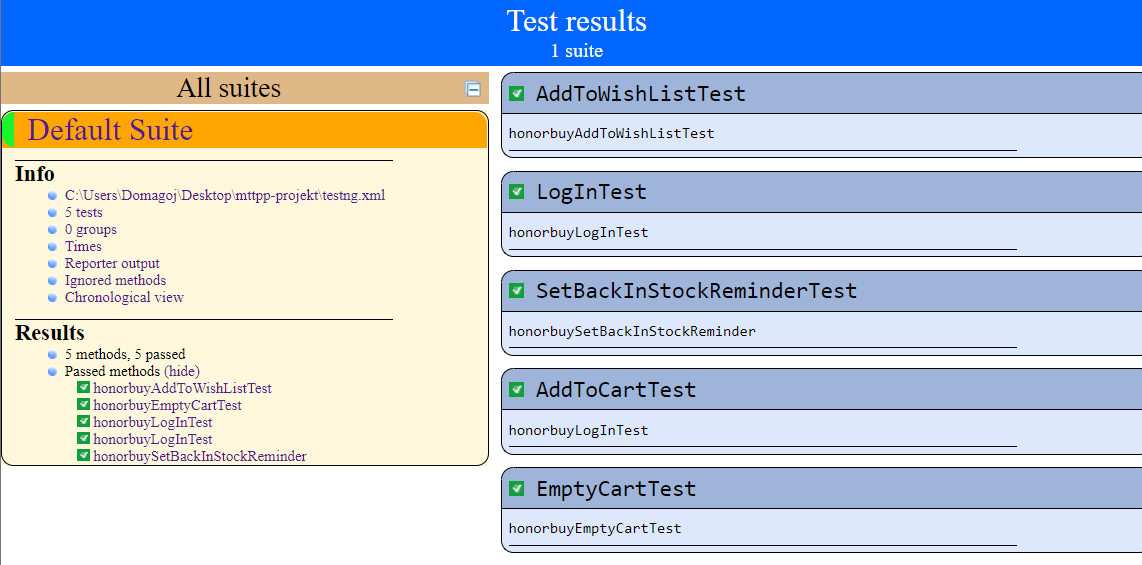
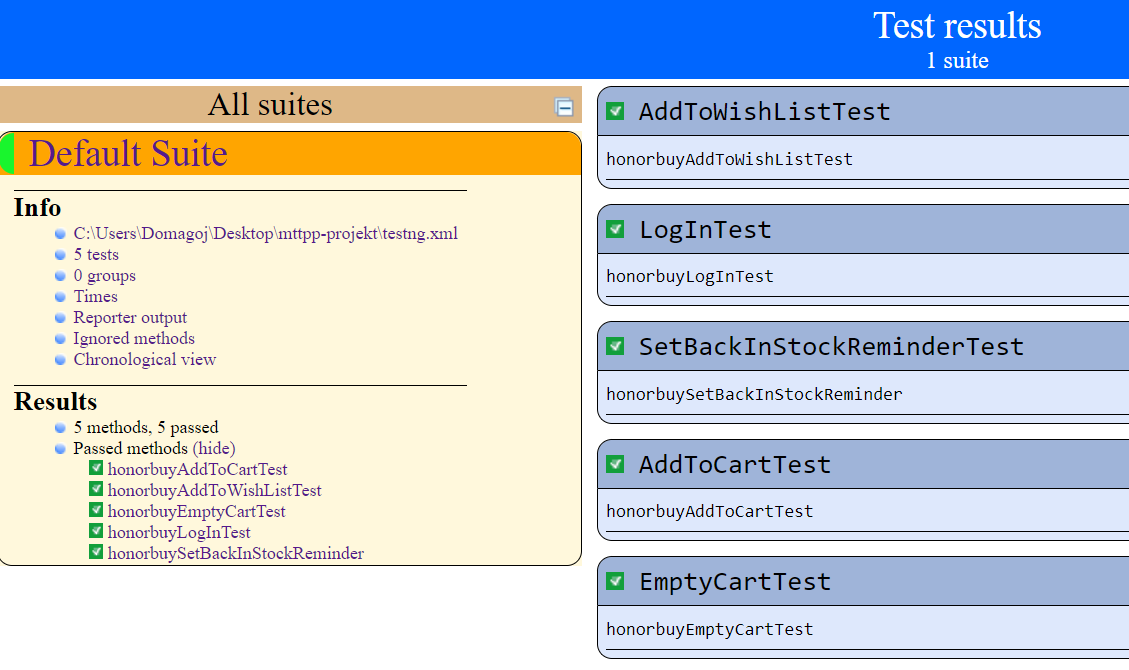
fix test method naming

Changed region(s): [[0.0, 0.0, 1.0, 0.9929]]

diff --git a/target/surefire-reports/old/Default Suite/methods-alphabetical.html b/target/surefire-reports/old/Default Suite/methods-alphabetical.html
@@ -1,34 +1,34 @@
 <h2>Methods run, sorted chronologically</h2><h3>&gt;&gt; means before, &lt;&lt; means after</h3><p/><br/><em>Default Suite</em><p/><small><i>(Hover the method name to see the test class name)</i></small><p/>
 <table border="1">
 <tr><th>Time</th><th>Delta (ms)</th><th>Suite<br>configuration</th><th>Test<br>configuration</th><th>Class<br>configuration</th><th>Groups<br>configuration</th><th>Method<br>configuration</th><th>Test<br>method</th><th>Thread</th><th>Instances</th></tr>
-<tr bgcolor="fbf16f">  <td>22/02/05 19:36:49</td>   <td>0</td> <td>&nbsp;</td><td>&nbsp;</td><td>&nbsp;</td><td>&nbsp;</td><td>&nbsp;</td><td title="AddToWishListTest.honorbuyAddToWishListTest()[pri:0, instance:AddToWishListTest@25af5db5]">honorbuyAddToWishListTest</td> 
+<tr bgcolor="9273a8">  <td>22/02/06 00:39:54</td>   <td>0</td> <td>&nbsp;</td><td>&nbsp;</td><td>&nbsp;</td><td>&nbsp;</td><td>&nbsp;</td><td title="AddToCartTest.honorbuyAddToCartTest()[pri:0, instance:AddToCartTest@26a7b76d]">honorbuyAddToCartTest</td> 
   <td>main@455538610</td>   <td></td> </tr>
-<tr bgcolor="88b285">  <td>22/02/05 19:36:40</td>   <td>-8865</td> <td>&nbsp;</td><td>&nbsp;</td><td>&nbsp;</td><td>&nbsp;</td><td>&nbsp;</td><td title="EmptyCartTest.honorbuyEmptyCartTest()[pri:0, instance:EmptyCartTest@7113b13f]">honorbuyEmptyCartTest</td> 
+<tr bgcolor="fbf16f">  <td>22/02/06 00:40:10</td>   <td>16031</td> <td>&nbsp;</td><td>&nbsp;</td><td>&nbsp;</td><td>&nbsp;</td><td>&nbsp;</td><td title="AddToWishListTest.honorbuyAddToWishListTest()[pri:0, instance:AddToWishListTest@25af5db5]">honorbuyAddToWishListTest</td> 
   <td>main@455538610</td>   <td></td> </tr>
-<tr bgcolor="e69ade">  <td>22/02/05 19:36:20</td>   <td>-29066</td> <td>&nbsp;</td><td>&nbsp;</td><td>&nbsp;</td><td>&nbsp;</td><td>&nbsp;</td><td title="LogInTest.honorbuyLogInTest()[pri:0, instance:LogInTest@80503]">honorbuyLogInTest</td> 
+<tr bgcolor="88b285">  <td>22/02/06 00:40:01</td>   <td>7113</td> <td>&nbsp;</td><td>&nbsp;</td><td>&nbsp;</td><td>&nbsp;</td><td>&nbsp;</td><td title="EmptyCartTest.honorbuyEmptyCartTest()[pri:0, instance:EmptyCartTest@7113b13f]">honorbuyEmptyCartTest</td> 
   <td>main@455538610</td>   <td></td> </tr>
-<tr bgcolor="9273a8">  <td>22/02/05 19:36:33</td>   <td>-16061</td> <td>&nbsp;</td><td>&nbsp;</td><td>&nbsp;</td><td>&nbsp;</td><td>&nbsp;</td><td title="AddToCartTest.honorbuyLogInTest()[pri:0, instance:AddToCartTest@26a7b76d]">honorbuyLogInTest</td> 
+<tr bgcolor="e69ade">  <td>22/02/06 00:39:42</td>   <td>-12096</td> <td>&nbsp;</td><td>&nbsp;</td><td>&nbsp;</td><td>&nbsp;</td><td>&nbsp;</td><td title="LogInTest.honorbuyLogInTest()[pri:0, instance:LogInTest@80503]">honorbuyLogInTest</td> 
   <td>main@455538610</td>   <td></td> </tr>
-<tr bgcolor="c1676b">  <td>22/02/05 19:36:25</td>   <td>-24164</td> <td>&nbsp;</td><td>&nbsp;</td><td>&nbsp;</td><td>&nbsp;</td><td>&nbsp;</td><td title="SetBackInStockReminderTest.honorbuySetBackInStockReminder()[pri:0, instance:SetBackInStockReminderTest@6b57696f]">honorbuySetBackInStockReminder</td> 
+<tr bgcolor="c1676b">  <td>22/02/06 00:39:46</td>   <td>-7421</td> <td>&nbsp;</td><td>&nbsp;</td><td>&nbsp;</td><td>&nbsp;</td><td>&nbsp;</td><td title="SetBackInStockReminderTest.honorbuySetBackInStockReminder()[pri:0, instance:SetBackInStockReminderTest@6b57696f]">honorbuySetBackInStockReminder</td> 
   <td>main@455538610</td>   <td></td> </tr>
-<tr bgcolor="e69ade">  <td>22/02/05 19:36:17</td>   <td>-31874</td> <td>&nbsp;</td><td>&nbsp;</td><td>&nbsp;</td><td>&nbsp;</td><td title="&gt;&gt;LogInTest.setupTest()[pri:0, instance:LogInTest@80503]">&gt;&gt;setupTest</td> 
+<tr bgcolor="e69ade">  <td>22/02/06 00:39:38</td>   <td>-16126</td> <td>&nbsp;</td><td>&nbsp;</td><td>&nbsp;</td><td>&nbsp;</td><td title="&gt;&gt;LogInTest.setupTest()[pri:0, instance:LogInTest@80503]">&gt;&gt;setupTest</td> 
 <td>&nbsp;</td>  <td>main@455538610</td>   <td></td> </tr>
-<tr bgcolor="c1676b">  <td>22/02/05 19:36:23</td>   <td>-26366</td> <td>&nbsp;</td><td>&nbsp;</td><td>&nbsp;</td><td>&nbsp;</td><td title="&gt;&gt;SetBackInStockReminderTest.setupTest()[pri:0, instance:SetBackInStockReminderTest@6b57696f]">&gt;&gt;setupTest</td> 
+<tr bgcolor="c1676b">  <td>22/02/06 00:39:44</td>   <td>-9612</td> <td>&nbsp;</td><td>&nbsp;</td><td>&nbsp;</td><td>&nbsp;</td><td title="&gt;&gt;SetBackInStockReminderTest.setupTest()[pri:0, instance:SetBackInStockReminderTest@6b57696f]">&gt;&gt;setupTest</td> 
 <td>&nbsp;</td>  <td>main@455538610</td>   <td></td> </tr>
-<tr bgcolor="9273a8">  <td>22/02/05 19:36:31</td>   <td>-18316</td> <td>&nbsp;</td><td>&nbsp;</td><td>&nbsp;</td><td>&nbsp;</td><td title="&gt;&gt;AddToCartTest.setupTest()[pri:0, instance:AddToCartTest@26a7b76d]">&gt;&gt;setupTest</td> 
+<tr bgcolor="9273a8">  <td>22/02/06 00:39:52</td>   <td>-2061</td> <td>&nbsp;</td><td>&nbsp;</td><td>&nbsp;</td><td>&nbsp;</td><td title="&gt;&gt;AddToCartTest.setupTest()[pri:0, instance:AddToCartTest@26a7b76d]">&gt;&gt;setupTest</td> 
 <td>&nbsp;</td>  <td>main@455538610</td>   <td></td> </tr>
-<tr bgcolor="88b285">  <td>22/02/05 19:36:38</td>   <td>-11006</td> <td>&nbsp;</td><td>&nbsp;</td><td>&nbsp;</td><td>&nbsp;</td><td title="&gt;&gt;EmptyCartTest.setupTest()[pri:0, instance:EmptyCartTest@7113b13f]">&gt;&gt;setupTest</td> 
+<tr bgcolor="88b285">  <td>22/02/06 00:39:59</td>   <td>4933</td> <td>&nbsp;</td><td>&nbsp;</td><td>&nbsp;</td><td>&nbsp;</td><td title="&gt;&gt;EmptyCartTest.setupTest()[pri:0, instance:EmptyCartTest@7113b13f]">&gt;&gt;setupTest</td> 
 <td>&nbsp;</td>  <td>main@455538610</td>   <td></td> </tr>
-<tr bgcolor="fbf16f">  <td>22/02/05 19:36:47</td>   <td>-2260</td> <td>&nbsp;</td><td>&nbsp;</td><td>&nbsp;</td><td>&nbsp;</td><td title="&gt;&gt;AddToWishListTest.setupTest()[pri:0, instance:AddToWishListTest@25af5db5]">&gt;&gt;setupTest</td> 
+<tr bgcolor="fbf16f">  <td>22/02/06 00:40:08</td>   <td>13866</td> <td>&nbsp;</td><td>&nbsp;</td><td>&nbsp;</td><td>&nbsp;</td><td title="&gt;&gt;AddToWishListTest.setupTest()[pri:0, instance:AddToWishListTest@25af5db5]">&gt;&gt;setupTest</td> 
 <td>&nbsp;</td>  <td>main@455538610</td>   <td></td> </tr>
-<tr bgcolor="e69ade">  <td>22/02/05 19:36:22</td>   <td>-26958</td> <td>&nbsp;</td><td>&nbsp;</td><td>&nbsp;</td><td>&nbsp;</td><td title="&lt;&lt;LogInTest.teardownTest()[pri:0, instance:LogInTest@80503]">&lt;&lt;teardownTest</td> 
+<tr bgcolor="e69ade">  <td>22/02/06 00:39:43</td>   <td>-10207</td> <td>&nbsp;</td><td>&nbsp;</td><td>&nbsp;</td><td>&nbsp;</td><td title="&lt;&lt;LogInTest.teardownTest()[pri:0, instance:LogInTest@80503]">&lt;&lt;teardownTest</td> 
 <td>&nbsp;</td>  <td>main@455538610</td>   <td></td> </tr>
-<tr bgcolor="c1676b">  <td>22/02/05 19:36:30</td>   <td>-18927</td> <td>&nbsp;</td><td>&nbsp;</td><td>&nbsp;</td><td>&nbsp;</td><td title="&lt;&lt;SetBackInStockReminderTest.teardownTest()[pri:0, instance:SetBackInStockReminderTest@6b57696f]">&lt;&lt;teardownTest</td> 
+<tr bgcolor="c1676b">  <td>22/02/06 00:39:51</td>   <td>-2655</td> <td>&nbsp;</td><td>&nbsp;</td><td>&nbsp;</td><td>&nbsp;</td><td title="&lt;&lt;SetBackInStockReminderTest.teardownTest()[pri:0, instance:SetBackInStockReminderTest@6b57696f]">&lt;&lt;teardownTest</td> 
 <td>&nbsp;</td>  <td>main@455538610</td>   <td></td> </tr>
-<tr bgcolor="9273a8">  <td>22/02/05 19:36:38</td>   <td>-11609</td> <td>&nbsp;</td><td>&nbsp;</td><td>&nbsp;</td><td>&nbsp;</td><td title="&lt;&lt;AddToCartTest.teardownTest()[pri:0, instance:AddToCartTest@26a7b76d]">&lt;&lt;teardownTest</td> 
+<tr bgcolor="9273a8">  <td>22/02/06 00:39:58</td>   <td>4317</td> <td>&nbsp;</td><td>&nbsp;</td><td>&nbsp;</td><td>&nbsp;</td><td title="&lt;&lt;AddToCartTest.teardownTest()[pri:0, instance:AddToCartTest@26a7b76d]">&lt;&lt;teardownTest</td> 
 <td>&nbsp;</td>  <td>main@455538610</td>   <td></td> </tr>
-<tr bgcolor="88b285">  <td>22/02/05 19:36:46</td>   <td>-2855</td> <td>&nbsp;</td><td>&nbsp;</td><td>&nbsp;</td><td>&nbsp;</td><td title="&lt;&lt;EmptyCartTest.teardownTest()[pri:0, instance:EmptyCartTest@7113b13f]">&lt;&lt;teardownTest</td> 
+<tr bgcolor="88b285">  <td>22/02/06 00:40:07</td>   <td>13257</td> <td>&nbsp;</td><td>&nbsp;</td><td>&nbsp;</td><td>&nbsp;</td><td title="&lt;&lt;EmptyCartTest.teardownTest()[pri:0, instance:EmptyCartTest@7113b13f]">&lt;&lt;teardownTest</td> 
 <td>&nbsp;</td>  <td>main@455538610</td>   <td></td> </tr>
-<tr bgcolor="fbf16f">  <td>22/02/05 19:36:56</td>   <td>7260</td> <td>&nbsp;</td><td>&nbsp;</td><td>&nbsp;</td><td>&nbsp;</td><td title="&lt;&lt;AddToWishListTest.teardownTest()[pri:0, instance:AddToWishListTest@25af5db5]">&lt;&lt;teardownTest</td> 
+<tr bgcolor="fbf16f">  <td>22/02/06 00:40:17</td>   <td>23495</td> <td>&nbsp;</td><td>&nbsp;</td><td>&nbsp;</td><td>&nbsp;</td><td title="&lt;&lt;AddToWishListTest.teardownTest()[pri:0, instance:AddToWishListTest@25af5db5]">&lt;&lt;teardownTest</td> 
 <td>&nbsp;</td>  <td>main@455538610</td>   <td></td> </tr>
 </table>

diff --git a/target/surefire-reports/old/Default Suite/methods.html b/target/surefire-reports/old/Default Suite/methods.html
@@ -1,34 +1,34 @@
 <h2>Methods run, sorted chronologically</h2><h3>&gt;&gt; means before, &lt;&lt; means after</h3><p/><br/><em>Default Suite</em><p/><small><i>(Hover the method name to see the test class name)</i></small><p/>
 <table border="1">
 <tr><th>Time</th><th>Delta (ms)</th><th>Suite<br>configuration</th><th>Test<br>configuration</th><th>Class<br>configuration</th><th>Groups<br>configuration</th><th>Method<br>configuration</th><th>Test<br>method</th><th>Thread</th><th>Instances</th></tr>
-<tr bgcolor="e69ade">  <td>22/02/05 19:36:17</td>   <td>0</td> <td>&nbsp;</td><td>&nbsp;</td><td>&nbsp;</td><td>&nbsp;</td><td title="&gt;&gt;LogInTest.setupTest()[pri:0, instance:LogInTest@80503]">&gt;&gt;setupTest</td> 
+<tr bgcolor="e69ade">  <td>22/02/06 00:39:38</td>   <td>0</td> <td>&nbsp;</td><td>&nbsp;</td><td>&nbsp;</td><td>&nbsp;</td><td title="&gt;&gt;LogInTest.setupTest()[pri:0, instance:LogInTest@80503]">&gt;&gt;setupTest</td> 
 <td>&nbsp;</td>  <td>main@455538610</td>   <td></td> </tr>
-<tr bgcolor="e69ade">  <td>22/02/05 19:36:20</td>   <td>2808</td> <td>&nbsp;</td><td>&nbsp;</td><td>&nbsp;</td><td>&nbsp;</td><td>&nbsp;</td><td title="LogInTest.honorbuyLogInTest()[pri:0, instance:LogInTest@80503]">honorbuyLogInTest</td> 
+<tr bgcolor="e69ade">  <td>22/02/06 00:39:42</td>   <td>4030</td> <td>&nbsp;</td><td>&nbsp;</td><td>&nbsp;</td><td>&nbsp;</td><td>&nbsp;</td><td title="LogInTest.honorbuyLogInTest()[pri:0, instance:LogInTest@80503]">honorbuyLogInTest</td> 
   <td>main@455538610</td>   <td></td> </tr>
-<tr bgcolor="e69ade">  <td>22/02/05 19:36:22</td>   <td>4916</td> <td>&nbsp;</td><td>&nbsp;</td><td>&nbsp;</td><td>&nbsp;</td><td title="&lt;&lt;LogInTest.teardownTest()[pri:0, instance:LogInTest@80503]">&lt;&lt;teardownTest</td> 
+<tr bgcolor="e69ade">  <td>22/02/06 00:39:43</td>   <td>5919</td> <td>&nbsp;</td><td>&nbsp;</td><td>&nbsp;</td><td>&nbsp;</td><td title="&lt;&lt;LogInTest.teardownTest()[pri:0, instance:LogInTest@80503]">&lt;&lt;teardownTest</td> 
 <td>&nbsp;</td>  <td>main@455538610</td>   <td></td> </tr>
-<tr bgcolor="c1676b">  <td>22/02/05 19:36:23</td>   <td>5508</td> <td>&nbsp;</td><td>&nbsp;</td><td>&nbsp;</td><td>&nbsp;</td><td title="&gt;&gt;SetBackInStockReminderTest.setupTest()[pri:0, instance:SetBackInStockReminderTest@6b57696f]">&gt;&gt;setupTest</td> 
+<tr bgcolor="c1676b">  <td>22/02/06 00:39:44</td>   <td>6514</td> <td>&nbsp;</td><td>&nbsp;</td><td>&nbsp;</td><td>&nbsp;</td><td title="&gt;&gt;SetBackInStockReminderTest.setupTest()[pri:0, instance:SetBackInStockReminderTest@6b57696f]">&gt;&gt;setupTest</td> 
 <td>&nbsp;</td>  <td>main@455538610</td>   <td></td> </tr>
-<tr bgcolor="c1676b">  <td>22/02/05 19:36:25</td>   <td>7710</td> <td>&nbsp;</td><td>&nbsp;</td><td>&nbsp;</td><td>&nbsp;</td><td>&nbsp;</td><td title="SetBackInStockReminderTest.honorbuySetBackInStockReminder()[pri:0, instance:SetBackInStockReminderTest@6b57696f]">honorbuySetBackInStockReminder</td> 
+<tr bgcolor="c1676b">  <td>22/02/06 00:39:46</td>   <td>8705</td> <td>&nbsp;</td><td>&nbsp;</td><td>&nbsp;</td><td>&nbsp;</td><td>&nbsp;</td><td title="SetBackInStockReminderTest.honorbuySetBackInStockReminder()[pri:0, instance:SetBackInStockReminderTest@6b57696f]">honorbuySetBackInStockReminder</td> 
   <td>main@455538610</td>   <td></td> </tr>
-<tr bgcolor="c1676b">  <td>22/02/05 19:36:30</td>   <td>12947</td> <td>&nbsp;</td><td>&nbsp;</td><td>&nbsp;</td><td>&nbsp;</td><td title="&lt;&lt;SetBackInStockReminderTest.teardownTest()[pri:0, instance:SetBackInStockReminderTest@6b57696f]">&lt;&lt;teardownTest</td> 
+<tr bgcolor="c1676b">  <td>22/02/06 00:39:51</td>   <td>13471</td> <td>&nbsp;</td><td>&nbsp;</td><td>&nbsp;</td><td>&nbsp;</td><td title="&lt;&lt;SetBackInStockReminderTest.teardownTest()[pri:0, instance:SetBackInStockReminderTest@6b57696f]">&lt;&lt;teardownTest</td> 
 <td>&nbsp;</td>  <td>main@455538610</td>   <td></td> </tr>
-<tr bgcolor="9273a8">  <td>22/02/05 19:36:31</td>   <td>13558</td> <td>&nbsp;</td><td>&nbsp;</td><td>&nbsp;</td><td>&nbsp;</td><td title="&gt;&gt;AddToCartTest.setupTest()[pri:0, instance:AddToCartTest@26a7b76d]">&gt;&gt;setupTest</td> 
+<tr bgcolor="9273a8">  <td>22/02/06 00:39:52</td>   <td>14065</td> <td>&nbsp;</td><td>&nbsp;</td><td>&nbsp;</td><td>&nbsp;</td><td title="&gt;&gt;AddToCartTest.setupTest()[pri:0, instance:AddToCartTest@26a7b76d]">&gt;&gt;setupTest</td> 
 <td>&nbsp;</td>  <td>main@455538610</td>   <td></td> </tr>
-<tr bgcolor="9273a8">  <td>22/02/05 19:36:33</td>   <td>15813</td> <td>&nbsp;</td><td>&nbsp;</td><td>&nbsp;</td><td>&nbsp;</td><td>&nbsp;</td><td title="AddToCartTest.honorbuyLogInTest()[pri:0, instance:AddToCartTest@26a7b76d]">honorbuyLogInTest</td> 
+<tr bgcolor="9273a8">  <td>22/02/06 00:39:54</td>   <td>16126</td> <td>&nbsp;</td><td>&nbsp;</td><td>&nbsp;</td><td>&nbsp;</td><td>&nbsp;</td><td title="AddToCartTest.honorbuyAddToCartTest()[pri:0, instance:AddToCartTest@26a7b76d]">honorbuyAddToCartTest</td> 
   <td>main@455538610</td>   <td></td> </tr>
-<tr bgcolor="9273a8">  <td>22/02/05 19:36:38</td>   <td>20265</td> <td>&nbsp;</td><td>&nbsp;</td><td>&nbsp;</td><td>&nbsp;</td><td title="&lt;&lt;AddToCartTest.teardownTest()[pri:0, instance:AddToCartTest@26a7b76d]">&lt;&lt;teardownTest</td> 
+<tr bgcolor="9273a8">  <td>22/02/06 00:39:58</td>   <td>20443</td> <td>&nbsp;</td><td>&nbsp;</td><td>&nbsp;</td><td>&nbsp;</td><td title="&lt;&lt;AddToCartTest.teardownTest()[pri:0, instance:AddToCartTest@26a7b76d]">&lt;&lt;teardownTest</td> 
 <td>&nbsp;</td>  <td>main@455538610</td>   <td></td> </tr>
-<tr bgcolor="88b285">  <td>22/02/05 19:36:38</td>   <td>20868</td> <td>&nbsp;</td><td>&nbsp;</td><td>&nbsp;</td><td>&nbsp;</td><td title="&gt;&gt;EmptyCartTest.setupTest()[pri:0, instance:EmptyCartTest@7113b13f]">&gt;&gt;setupTest</td> 
+<tr bgcolor="88b285">  <td>22/02/06 00:39:59</td>   <td>21059</td> <td>&nbsp;</td><td>&nbsp;</td><td>&nbsp;</td><td>&nbsp;</td><td title="&gt;&gt;EmptyCartTest.setupTest()[pri:0, instance:EmptyCartTest@7113b13f]">&gt;&gt;setupTest</td> 
 <td>&nbsp;</td>  <td>main@455538610</td>   <td></td> </tr>
-<tr bgcolor="88b285">  <td>22/02/05 19:36:40</td>   <td>23009</td> <td>&nbsp;</td><td>&nbsp;</td><td>&nbsp;</td><td>&nbsp;</td><td>&nbsp;</td><td title="EmptyCartTest.honorbuyEmptyCartTest()[pri:0, instance:EmptyCartTest@7113b13f]">honorbuyEmptyCartTest</td> 
+<tr bgcolor="88b285">  <td>22/02/06 00:40:01</td>   <td>23239</td> <td>&nbsp;</td><td>&nbsp;</td><td>&nbsp;</td><td>&nbsp;</td><td>&nbsp;</td><td title="EmptyCartTest.honorbuyEmptyCartTest()[pri:0, instance:EmptyCartTest@7113b13f]">honorbuyEmptyCartTest</td> 
   <td>main@455538610</td>   <td></td> </tr>
-<tr bgcolor="88b285">  <td>22/02/05 19:36:46</td>   <td>29019</td> <td>&nbsp;</td><td>&nbsp;</td><td>&nbsp;</td><td>&nbsp;</td><td title="&lt;&lt;EmptyCartTest.teardownTest()[pri:0, instance:EmptyCartTest@7113b13f]">&lt;&lt;teardownTest</td> 
+<tr bgcolor="88b285">  <td>22/02/06 00:40:07</td>   <td>29383</td> <td>&nbsp;</td><td>&nbsp;</td><td>&nbsp;</td><td>&nbsp;</td><td title="&lt;&lt;EmptyCartTest.teardownTest()[pri:0, instance:EmptyCartTest@7113b13f]">&lt;&lt;teardownTest</td> 
 <td>&nbsp;</td>  <td>main@455538610</td>   <td></td> </tr>
-<tr bgcolor="fbf16f">  <td>22/02/05 19:36:47</td>   <td>29614</td> <td>&nbsp;</td><td>&nbsp;</td><td>&nbsp;</td><td>&nbsp;</td><td title="&gt;&gt;AddToWishListTest.setupTest()[pri:0, instance:AddToWishListTest@25af5db5]">&gt;&gt;setupTest</td> 
+<tr bgcolor="fbf16f">  <td>22/02/06 00:40:08</td>   <td>29992</td> <td>&nbsp;</td><td>&nbsp;</td><td>&nbsp;</td><td>&nbsp;</td><td title="&gt;&gt;AddToWishListTest.setupTest()[pri:0, instance:AddToWishListTest@25af5db5]">&gt;&gt;setupTest</td> 
 <td>&nbsp;</td>  <td>main@455538610</td>   <td></td> </tr>
-<tr bgcolor="fbf16f">  <td>22/02/05 19:36:49</td>   <td>31874</td> <td>&nbsp;</td><td>&nbsp;</td><td>&nbsp;</td><td>&nbsp;</td><td>&nbsp;</td><td title="AddToWishListTest.honorbuyAddToWishListTest()[pri:0, instance:AddToWishListTest@25af5db5]">honorbuyAddToWishListTest</td> 
+<tr bgcolor="fbf16f">  <td>22/02/06 00:40:10</td>   <td>32157</td> <td>&nbsp;</td><td>&nbsp;</td><td>&nbsp;</td><td>&nbsp;</td><td>&nbsp;</td><td title="AddToWishListTest.honorbuyAddToWishListTest()[pri:0, instance:AddToWishListTest@25af5db5]">honorbuyAddToWishListTest</td> 
   <td>main@455538610</td>   <td></td> </tr>
-<tr bgcolor="fbf16f">  <td>22/02/05 19:36:56</td>   <td>39134</td> <td>&nbsp;</td><td>&nbsp;</td><td>&nbsp;</td><td>&nbsp;</td><td title="&lt;&lt;AddToWishListTest.teardownTest()[pri:0, instance:AddToWishListTest@25af5db5]">&lt;&lt;teardownTest</td> 
+<tr bgcolor="fbf16f">  <td>22/02/06 00:40:17</td>   <td>39621</td> <td>&nbsp;</td><td>&nbsp;</td><td>&nbsp;</td><td>&nbsp;</td><td title="&lt;&lt;AddToWishListTest.teardownTest()[pri:0, instance:AddToWishListTest@25af5db5]">&lt;&lt;teardownTest</td> 
 <td>&nbsp;</td>  <td>main@455538610</td>   <td></td> </tr>
 </table>

diff --git a/target/surefire-reports/index.html b/target/surefire-reports/index.html
@@ -102,6 +102,11 @@
                     <div class="method-list-content passed suite-Default_Suite">
                       <span>
                         <img width="3%" src="passed.png"/>
+                        <a href="#" class="method navigator-link" panel-name="suite-Default_Suite" title="AddToCartTest" hash-for-method="honorbuyAddToCartTest">honorbuyAddToCartTest</a> <!-- method navigator-link -->
+                      </span>
+                      <br/>
+                      <span>
+                        <img width="3%" src="passed.png"/>
                         <a href="#" class="method navigator-link" panel-name="suite-Default_Suite" title="AddToWishListTest" hash-for-method="honorbuyAddToWishListTest">honorbuyAddToWishListTest</a> <!-- method navigator-link -->
                       </span>
                       <br/>
@@ -113,11 +118,6 @@
                       <span>
                         <img width="3%" src="passed.png"/>
                         <a href="#" class="method navigator-link" panel-name="suite-Default_Suite" title="LogInTest" hash-for-method="honorbuyLogInTest">honorbuyLogInTest</a> <!-- method navigator-link -->
-                      </span>
-                      <br/>
-                      <span>
-                        <img width="3%" src="passed.png"/>
-                        <a href="#" class="method navigator-link" panel-name="suite-Default_Suite" title="AddToCartTest" hash-for-method="honorbuyLogInTest">honorbuyLogInTest</a> <!-- method navigator-link -->
                       </span>
                       <br/>
                       <span>
@@ -190,9 +190,9 @@
             <div class="main-panel-content rounded-window-bottom">
               <div class="method">
                 <div class="method-content">
-                  <a name="honorbuyLogInTest">
-                  </a> <!-- honorbuyLogInTest -->
-                  <span class="method-name">honorbuyLogInTest</span>
+                  <a name="honorbuyAddToCartTest">
+                  </a> <!-- honorbuyAddToCartTest -->
+                  <span class="method-name">honorbuyAddToCartTest</span>
                 </div> <!-- method-content -->
               </div> <!-- method -->
             </div> <!-- main-panel-content rounded-window-bottom -->
@@ -300,28 +300,28 @@ data.addRows(5);
 data.setCell(0, 0, 0)
 data.setCell(0, 1, 'honorbuyAddToWishListTest')
 data.setCell(0, 2, 'AddToWishListTest')
-data.setCell(0, 3, 7260);
+data.setCell(0, 3, 7464);
 data.setCell(1, 0, 1)
 data.setCell(1, 1, 'honorbuyEmptyCartTest')
 data.setCell(1, 2, 'EmptyCartTest')
-data.setCell(1, 3, 6010);
+data.setCell(1, 3, 6144);
 data.setCell(2, 0, 2)
 data.setCell(2, 1, 'honorbuySetBackInStockReminder')
 data.setCell(2, 2, 'SetBackInStockReminderTest')
-data.setCell(2, 3, 5236);
+data.setCell(2, 3, 4765);
 data.setCell(3, 0, 3)
-data.setCell(3, 1, 'honorbuyLogInTest')
+data.setCell(3, 1, 'honorbuyAddToCartTest')
 data.setCell(3, 2, 'AddToCartTest')
-data.setCell(3, 3, 4452);
+data.setCell(3, 3, 4317);
 data.setCell(4, 0, 4)
 data.setCell(4, 1, 'honorbuyLogInTest')
 data.setCell(4, 2, 'LogInTest')
-data.setCell(4, 3, 2107);
+data.setCell(4, 3, 1888);
 window.suiteTableData['Default_Suite']= { tableData: data, tableDiv: 'times-div-Default_Suite'}
 return data;
 }
               </script>
-              <span class="suite-total-time">Total running time: 25 seconds</span>
+              <span class="suite-total-time">Total running time: 24 seconds</span>
               <div id="times-div-Default_Suite">
               </div> <!-- times-div-Default_Suite -->
             </div> <!-- times-div -->
@@ -354,71 +354,71 @@ return data;
               </div> <!-- configuration-method before -->
               <div class="test-method">
                 <span class="method-name">honorbuyLogInTest</span>
-                <span class="method-start">2808 ms</span>
+                <span class="method-start">4030 ms</span>
               </div> <!-- test-method -->
               <div class="configuration-method after">
                 <span class="method-name">teardownTest</span>
-                <span class="method-start">4916 ms</span>
+                <span class="method-start">5919 ms</span>
               </div> <!-- configuration-method after -->
             </div> <!-- chronological-class -->
             <div class="chronological-class">
               <div class="chronological-class-name">SetBackInStockReminderTest</div> <!-- chronological-class-name -->
               <div class="configuration-method before">
                 <span class="method-name">setupTest</span>
-                <span class="method-start">5508 ms</span>
+                <span class="method-start">6514 ms</span>
               </div> <!-- configuration-method before -->
               <div class="test-method">
                 <span class="method-name">honorbuySetBackInStockReminder</span>
-                <span class="method-start">7710 ms</span>
+                <span class="method-start">8705 ms</span>
               </div> <!-- test-method -->
               <div class="configuration-method after">
                 <span class="method-name">teardownTest</span>
-                <span class="method-start">12947 ms</span>
+                <span class="method-start">13470 ms</span>
               </div> <!-- configuration-method after -->
             </div> <!-- chronological-class -->
             <div class="chronological-class">
               <div class="chronological-class-name">AddToCartTest</div> <!-- chronological-class-name -->
               <div class="configuration-method before">
                 <span class="method-name">setupTest</span>
-                <span class="method-start">13558 ms</span>
+                <span class="method-start">14065 ms</span>
               </div> <!-- configuration-method before -->
               <div class="test-method">
-                <span class="method-name">honorbuyLogInTest</span>
-                <span class="method-start">15813 ms</span>
+                <span class="method-name">honorbuyAddToCartTest</span>
+                <span class="method-start">16126 ms</span>
               </div> <!-- test-method -->
               <div class="configuration-method after">
                 <span class="method-name">teardownTest</span>
-                <span class="method-start">20265 ms</span>
+                <span class="method-start">20443 ms</span>
               </div> <!-- configuration-method after -->
             </div> <!-- chronological-class -->
             <div class="chronological-class">
               <div class="chronological-class-name">EmptyCartTest</div> <!-- chronological-class-name -->
               <div class="configuration-method before">
                 <span class="method-name">setupTest</span>
-                <span class="method-start">20868 ms</span>
+                <span class="method-start">21059 ms</span>
               </div> <!-- configuration-method before -->
               <div class="test-method">
                 <span class="method-name">honorbuyEmptyCartTest</span>
-                <span class="method-start">23009 ms</span>
+                <span class="method-start">23239 ms</span>
               </div> <!-- test-method -->
               <div class="configuration-method after">
                 <span class="method-name">teardownTest</span>
-                <span class="method-start">29019 ms</span>
+                <span class="method-start">29383 ms</span>
               </div> <!-- configuration-method after -->
             </div> <!-- chronological-class -->
             <div class="chronological-class">
               <div class="chronological-class-name">AddToWishListTest</div> <!-- chronological-class-name -->
               <div class="configuration-method before">
                 <span class="method-name">setupTest</span>
-                <span class="method-start">29614 ms</span>
+                <span class="method-start">29992 ms</span>
               </div> <!-- configuration-method before -->
               <div class="test-method">
                 <span class="method-name">honorbuyAddToWishListTest</span>
-                <span class="method-start">31874 ms</span>
+                <span class="method-start">32157 ms</span>
               </div> <!-- test-method -->
               <div class="configuration-method after">
                 <span class="method-name">teardownTest</span>
-                <span class="method-start">39134 ms</span>
+                <span class="method-start">39621 ms</span>
               </div> <!-- configuration-method after -->
           </div> <!-- main-panel-content rounded-window-bottom -->
         </div> <!-- panel -->

diff --git a/target/surefire-reports/emailable-report.html b/target/surefire-reports/emailable-report.html
@@ -9,22 +9,22 @@
 <table>
 <tr><th>Test</th><th># Passed</th><th># Skipped</th><th># Failed</th><th>Time (ms)</th><th>Included Groups</th><th>Excluded Groups</th></tr>
 <tr><th colspan="7">Default Suite</th></tr>
-<tr><td><a href="#t0">LogInTest</a></td><td class="num">1</td><td class="num">0</td><td class="num">0</td><td class="num">5.508</td><td></td><td></td></tr>
-<tr class="stripe"><td><a href="#t1">SetBackInStockReminderTest</a></td><td class="num">1</td><td class="num">0</td><td class="num">0</td><td class="num">8.050</td><td></td><td></td></tr>
-<tr><td><a href="#t2">AddToCartTest</a></td><td class="num">1</td><td class="num">0</td><td class="num">0</td><td class="num">7.310</td><td></td><td></td></tr>
-<tr class="stripe"><td><a href="#t3">EmptyCartTest</a></td><td class="num">1</td><td class="num">0</td><td class="num">0</td><td class="num">8.746</td><td></td><td></td></tr>
-<tr><td><a href="#t4">AddToWishListTest</a></td><td class="num">1</td><td class="num">0</td><td class="num">0</td><td class="num">10.127</td><td></td><td></td></tr>
-<tr><th>Total</th><th class="num">5</th><th class="num">0</th><th class="num">0</th><th class="num">39.741</th><th colspan="2"></th></tr>
+<tr><td><a href="#t0">LogInTest</a></td><td class="num">1</td><td class="num">0</td><td class="num">0</td><td class="num">6.514</td><td></td><td></td></tr>
+<tr class="stripe"><td><a href="#t1">SetBackInStockReminderTest</a></td><td class="num">1</td><td class="num">0</td><td class="num">0</td><td class="num">7.551</td><td></td><td></td></tr>
+<tr><td><a href="#t2">AddToCartTest</a></td><td class="num">1</td><td class="num">0</td><td class="num">0</td><td class="num">6.994</td><td></td><td></td></tr>
+<tr class="stripe"><td><a href="#t3">EmptyCartTest</a></td><td class="num">1</td><td class="num">0</td><td class="num">0</td><td class="num">8.933</td><td></td><td></td></tr>
+<tr><td><a href="#t4">AddToWishListTest</a></td><td class="num">1</td><td class="num">0</td><td class="num">0</td><td class="num">10.229</td><td></td><td></td></tr>
+<tr><th>Total</th><th class="num">5</th><th class="num">0</th><th class="num">0</th><th class="num">40.221</th><th colspan="2"></th></tr>
 </table>
-<table id='summary'><thead><tr><th>Class</th><th>Method</th><th>Start</th><th>Time (ms)</th></tr></thead><tbody><tr><th colspan="4">Default Suite</th></tr></tbody><tbody id="t0"><tr><th colspan="4">LogInTest &#8212; passed</th></tr><tr class="passedeven"><td rowspan="1">LogInTest</td><td><a href="#m0">honorbuyLogInTest</a></td><td rowspan="1">1644086180619</td><td rowspan="1">2107</td></tr></tbody>
-<tbody id="t1"><tr><th colspan="4">SetBackInStockReminderTest &#8212; passed</th></tr><tr class="passedeven"><td rowspan="1">SetBackInStockReminderTest</td><td><a href="#m1">honorbuySetBackInStockReminder</a></td><td rowspan="1">1644086185521</td><td rowspan="1">5236</td></tr></tbody>
-<tbody id="t2"><tr><th colspan="4">AddToCartTest &#8212; passed</th></tr><tr class="passedeven"><td rowspan="1">AddToCartTest</td><td><a href="#m2">honorbuyLogInTest</a></td><td rowspan="1">1644086193624</td><td rowspan="1">4452</td></tr></tbody>
-<tbody id="t3"><tr><th colspan="4">EmptyCartTest &#8212; passed</th></tr><tr class="passedeven"><td rowspan="1">EmptyCartTest</td><td><a href="#m3">honorbuyEmptyCartTest</a></td><td rowspan="1">1644086200820</td><td rowspan="1">6010</td></tr></tbody>
-<tbody id="t4"><tr><th colspan="4">AddToWishListTest &#8212; passed</th></tr><tr class="passedeven"><td rowspan="1">AddToWishListTest</td><td><a href="#m4">honorbuyAddToWishListTest</a></td><td rowspan="1">1644086209685</td><td rowspan="1">7260</td></tr></tbody>
+<table id='summary'><thead><tr><th>Class</th><th>Method</th><th>Start</th><th>Time (ms)</th></tr></thead><tbody><tr><th colspan="4">Default Suite</th></tr></tbody><tbody id="t0"><tr><th colspan="4">LogInTest &#8212; passed</th></tr><tr class="passedeven"><td rowspan="1">LogInTest</td><td><a href="#m0">honorbuyLogInTest</a></td><td rowspan="1">1644104382077</td><td rowspan="1">1888</td></tr></tbody>
+<tbody id="t1"><tr><th colspan="4">SetBackInStockReminderTest &#8212; passed</th></tr><tr class="passedeven"><td rowspan="1">SetBackInStockReminderTest</td><td><a href="#m1">honorbuySetBackInStockReminder</a></td><td rowspan="1">1644104386752</td><td rowspan="1">4765</td></tr></tbody>
+<tbody id="t2"><tr><th colspan="4">AddToCartTest &#8212; passed</th></tr><tr class="passedeven"><td rowspan="1">AddToCartTest</td><td><a href="#m2">honorbuyAddToCartTest</a></td><td rowspan="1">1644104394173</td><td rowspan="1">4317</td></tr></tbody>
+<tbody id="t3"><tr><th colspan="4">EmptyCartTest &#8212; passed</th></tr><tr class="passedeven"><td rowspan="1">EmptyCartTest</td><td><a href="#m3">honorbuyEmptyCartTest</a></td><td rowspan="1">1644104401286</td><td rowspan="1">6144</td></tr></tbody>
+<tbody id="t4"><tr><th colspan="4">AddToWishListTest &#8212; passed</th></tr><tr class="passedeven"><td rowspan="1">AddToWishListTest</td><td><a href="#m4">honorbuyAddToWishListTest</a></td><td rowspan="1">1644104410204</td><td rowspan="1">7464</td></tr></tbody>
 </table>
 <h2>LogInTest</h2><h3 id="m0">LogInTest#honorbuyLogInTest</h3><table class="result"><tr><th class="invisible"/></tr></table><p class="totop"><a href="#summary">back to summary</a></p>
 <h2>SetBackInStockReminderTest</h2><h3 id="m1">SetBackInStockReminderTest#honorbuySetBackInStockReminder</h3><table class="result"><tr><th class="invisible"/></tr></table><p class="totop"><a href="#summary">back to summary</a></p>
-<h2>AddToCartTest</h2><h3 id="m2">AddToCartTest#honorbuyLogInTest</h3><table class="result"><tr><th class="invisible"/></tr></table><p class="totop"><a href="#summary">back to summary</a></p>
+<h2>AddToCartTest</h2><h3 id="m2">AddToCartTest#honorbuyAddToCartTest</h3><table class="result"><tr><th class="invisible"/></tr></table><p class="totop"><a href="#summary">back to summary</a></p>
 <h2>EmptyCartTest</h2><h3 id="m3">EmptyCartTest#honorbuyEmptyCartTest</h3><table class="result"><tr><th class="invisible"/></tr></table><p class="totop"><a href="#summary">back to summary</a></p>
 <h2>AddToWishListTest</h2><h3 id="m4">AddToWishListTest#honorbuyAddToWishListTest</h3><table class="result"><tr><th class="invisible"/></tr></table><p class="totop"><a href="#summary">back to summary</a></p>
 </body>

diff --git a/target/surefire-reports/Default Suite/AddToCartTest.html b/target/surefire-reports/Default Suite/AddToCartTest.html
@@ -57,9 +57,9 @@ function toggleAllBoxes() {
 <tr>
 <td>Tests passed/Failed/Skipped:</td><td>1/0/0</td>
 </tr><tr>
-<td>Started on:</td><td>Sat Feb 05 19:36:31 CET 2022</td>
+<td>Started on:</td><td>Sun Feb 06 00:39:52 CET 2022</td>
 </tr>
-<tr><td>Total time:</td><td>7 seconds (7310 ms)</td>
+<tr><td>Total time:</td><td>6 seconds (6994 ms)</td>
 </tr><tr>
 <td>Included groups:</td><td></td>
 </tr><tr>
@@ -75,7 +75,7 @@ function toggleAllBoxes() {
 <td><b>Instance</b></td>
 </tr>
 <tr>
-<td title='AddToCartTest.honorbuyLogInTest()'><b>honorbuyLogInTest</b><br>Test class: AddToCartTest</td>
+<td title='AddToCartTest.honorbuyAddToCartTest()'><b>honorbuyAddToCartTest</b><br>Test class: AddToCartTest</td>
 <td></td>
 <td>4</td>
 <td>AddToCartTest@26a7b76d</td></tr>

diff --git a/target/surefire-reports/Default Suite/SetBackInStockReminderTest.html b/target/surefire-reports/Default Suite/SetBackInStockReminderTest.html
@@ -57,9 +57,9 @@ function toggleAllBoxes() {
 <tr>
 <td>Tests passed/Failed/Skipped:</td><td>1/0/0</td>
 </tr><tr>
-<td>Started on:</td><td>Sat Feb 05 19:36:23 CET 2022</td>
+<td>Started on:</td><td>Sun Feb 06 00:39:44 CET 2022</td>
 </tr>
-<tr><td>Total time:</td><td>8 seconds (8050 ms)</td>
+<tr><td>Total time:</td><td>7 seconds (7551 ms)</td>
 </tr><tr>
 <td>Included groups:</td><td></td>
 </tr><tr>
@@ -77,7 +77,7 @@ function toggleAllBoxes() {
 <tr>
 <td title='SetBackInStockReminderTest.honorbuySetBackInStockReminder()'><b>honorbuySetBackInStockReminder</b><br>Test class: SetBackInStockReminderTest</td>
 <td></td>
-<td>5</td>
+<td>4</td>
 <td>SetBackInStockReminderTest@6b57696f</td></tr>
 </table><p>
 </body>

diff --git a/target/surefire-reports/Default Suite/LogInTest.html b/target/surefire-reports/Default Suite/LogInTest.html
@@ -57,9 +57,9 @@ function toggleAllBoxes() {
 <tr>
 <td>Tests passed/Failed/Skipped:</td><td>1/0/0</td>
 </tr><tr>
-<td>Started on:</td><td>Sat Feb 05 19:36:17 CET 2022</td>
+<td>Started on:</td><td>Sun Feb 06 00:39:38 CET 2022</td>
 </tr>
-<tr><td>Total time:</td><td>5 seconds (5508 ms)</td>
+<tr><td>Total time:</td><td>6 seconds (6514 ms)</td>
 </tr><tr>
 <td>Included groups:</td><td></td>
 </tr><tr>
@@ -77,7 +77,7 @@ function toggleAllBoxes() {
 <tr>
 <td title='LogInTest.honorbuyLogInTest()'><b>honorbuyLogInTest</b><br>Test class: LogInTest</td>
 <td></td>
-<td>2</td>
+<td>1</td>
 <td>LogInTest@80503</td></tr>
 </table><p>
 </body>

diff --git a/target/surefire-reports/Default Suite/AddToWishListTest.html b/target/surefire-reports/Default Suite/AddToWishListTest.html
@@ -57,9 +57,9 @@ function toggleAllBoxes() {
 <tr>
 <td>Tests passed/Failed/Skipped:</td><td>1/0/0</td>
 </tr><tr>
-<td>Started on:</td><td>Sat Feb 05 19:36:47 CET 2022</td>
+<td>Started on:</td><td>Sun Feb 06 00:40:08 CET 2022</td>
 </tr>
-<tr><td>Total time:</td><td>10 seconds (10127 ms)</td>
+<tr><td>Total time:</td><td>10 seconds (10229 ms)</td>
 </tr><tr>
 <td>Included groups:</td><td></td>
 </tr><tr>

diff --git a/target/surefire-reports/Default Suite/EmptyCartTest.html b/target/surefire-reports/Default Suite/EmptyCartTest.html
@@ -57,9 +57,9 @@ function toggleAllBoxes() {
 <tr>
 <td>Tests passed/Failed/Skipped:</td><td>1/0/0</td>
 </tr><tr>
-<td>Started on:</td><td>Sat Feb 05 19:36:38 CET 2022</td>
+<td>Started on:</td><td>Sun Feb 06 00:39:59 CET 2022</td>
 </tr>
-<tr><td>Total time:</td><td>8 seconds (8746 ms)</td>
+<tr><td>Total time:</td><td>8 seconds (8933 ms)</td>
 </tr><tr>
 <td>Included groups:</td><td></td>
 </tr><tr>

diff --git a/target/surefire-reports/old/Default Suite/classes.html b/target/surefire-reports/old/Default Suite/classes.html
@@ -71,7 +71,7 @@
 </tr>
 <tr>
 <td>&nbsp;</td>
-<td>honorbuyLogInTest</td>
+<td>honorbuyAddToCartTest</td>
 <td>&nbsp;</td></tr>
 <tr>
 <td align='center' colspan='3'>@BeforeClass</td>
